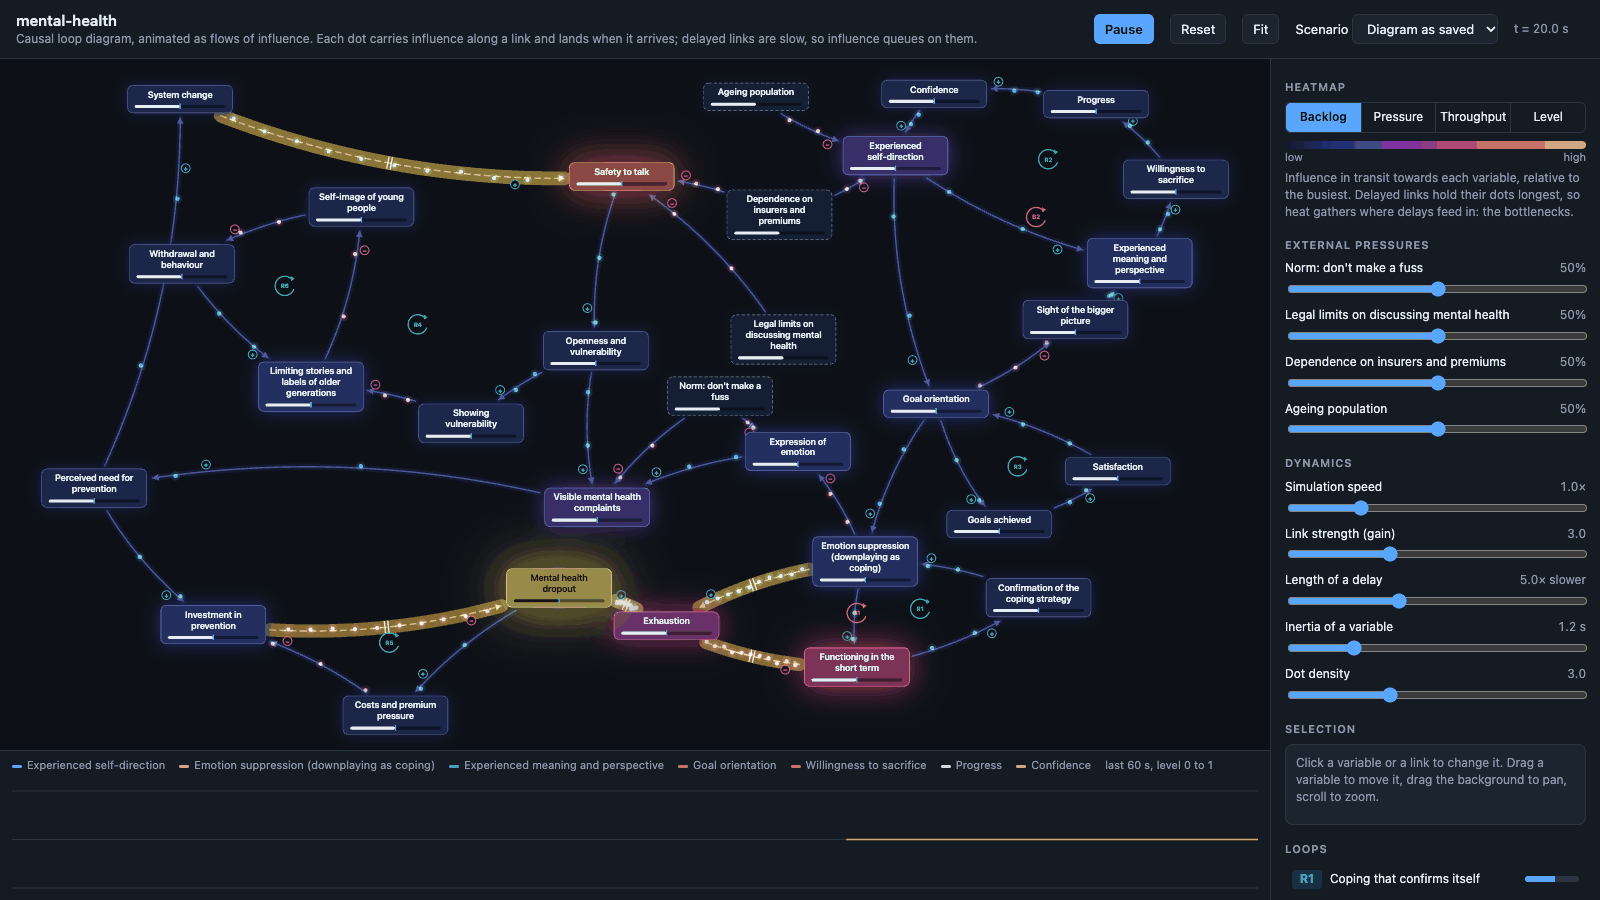
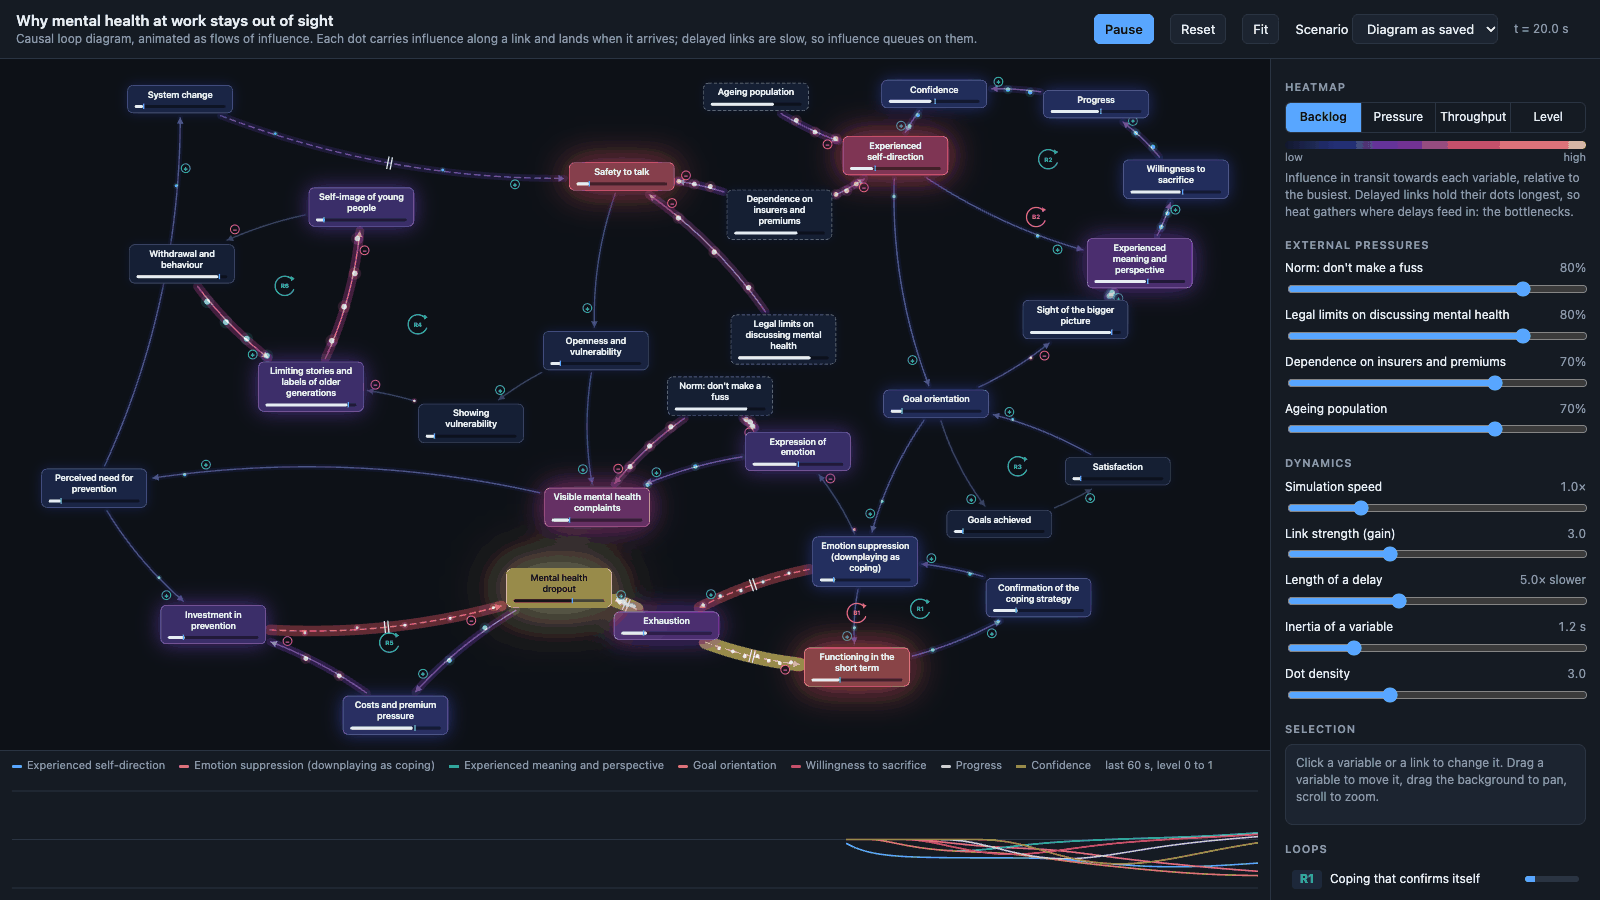
Spec 074: the mental health example states its title and starting values
The maintainer's ruling 1a of 2026-10-31: the title, and the prototype's Status quo as starting levels (norm 80%, legal limits 80%, insurers 70%, ageing 70%), so that its flow page and the website's screenshot start where the accepted prototype does. The definition follows etalii.adp 646, whose Starting level says it only affects a variable no link points to.

diff --git a/src/diagrams/causal-loop-diagram/backend/EtAlii.Adp.Diagram.CausalLoopDiagram.Tests/Parity/HandWrittenCausalLoop.cs b/src/diagrams/causal-loop-diagram/backend/EtAlii.Adp.Diagram.CausalLoopDiagram.Tests/Parity/HandWrittenCausalLoop.cs
@@ -356,7 +356,7 @@ internal static class HandWrittenCausalLoop
     private static string? WordOf(string text, string variable, string key) =>
         text.Split('\n')
             .Select(line => line.Trim().Split(' ', StringSplitOptions.RemoveEmptyEntries))
-            .Where(words => words.Length >= 2 && words[0] == "variable" && words[1] == variable)
+            .Where(words => words is ["variable", var name, ..] && name == variable)
             .SelectMany(words => words)
             .FirstOrDefault(word => word.StartsWith(key + "=", StringComparison.Ordinal))?[(key.Length + 1)..];
 

diff --git a/src/diagrams/causal-loop-diagram/definition/causal-loop-diagram.md b/src/diagrams/causal-loop-diagram/definition/causal-loop-diagram.md
@@ -195,6 +195,8 @@ The diagram still simulates nothing itself: no host moves its variables. A flow 
 | a variable | Outside push | `push` | -4 to 4 | 0 | `push=<n>` in its line |
 | a link | Weight | `weight` | limited to 0 to 3 in a page | 1 in a page, none in the file | `weight=<n>` in its line |
 
+A Starting level only affects a variable no link points to: the flow page keeps the prototype's Reset, which puts every other variable back at 0.5 (FR-036, the maintainer's ruling of 2026-10-31).
+
 A value out of range is kept as written and reported under `causal-loop.flow-value-out-of-range`, and the page uses the nearest value in range; on a variable the finding stands on its line, and on the diagram it has none, since a finding on the diagram names no line. The property grid refuses such a value with the range. A `flow` statement with a word the rule does not read is no `flow` statement: the last rule keeps it byte for byte and it is reported on its line. Of two `flow` statements the last that states a key wins for that key, and an edit goes there. Nothing tells a person that an earlier statement is overruled, since neither FBL nor DISL can state that and a host adds no finding of its own for it.
 
 A host with the older binding reads a file that holds them and loses nothing: a `title` or `flow` line is its last rule's, kept byte for byte and reported as unread, and a variable's words are its unbound rest, kept byte for byte and not reported (the fixture `causal-loop-flow-older`). A variable whose label is not quoted may not hold `=` from this version on, so that `variable a start=0.7` reads no label.
